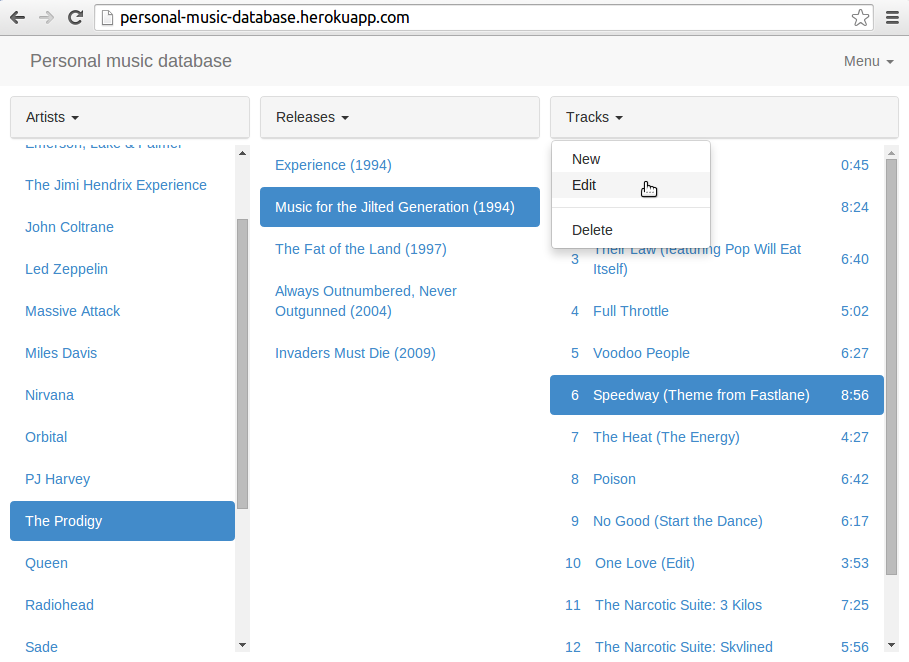
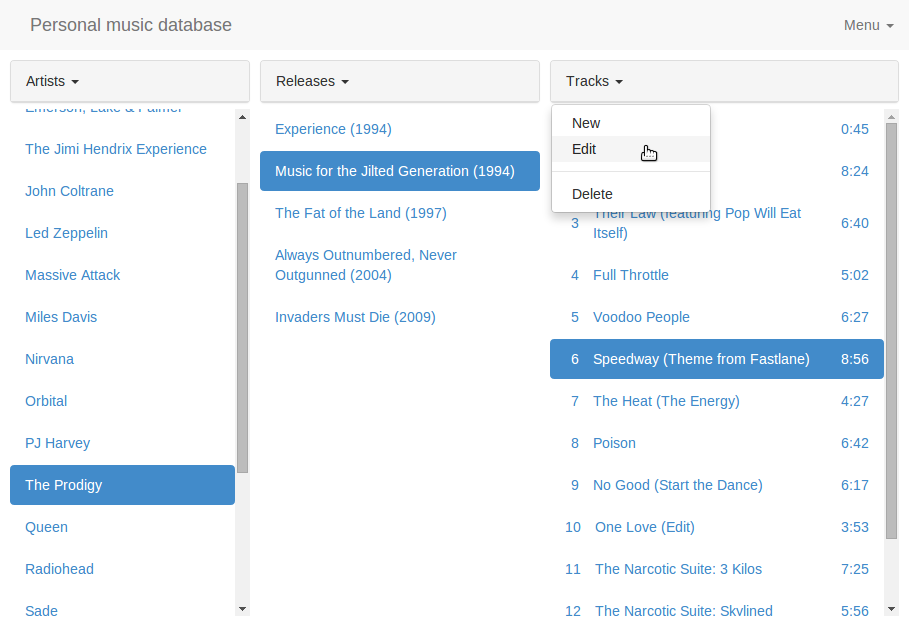
change deployment from heroku to github.io

diff --git a/README.md b/README.md
@@ -4,7 +4,7 @@
 
 個人用音楽データ管理Webアプリケーションです。次のURLで公開しています。データはブラウザのローカル環境にだけ保存されます。外部へアクセスすることはありませんので安心してお使い下さい。
 
-* <http://personal-music-database.herokuapp.com/>
+* <http://higuma.github.io/personal-music-database/>
 
 ![Screen shot](screenshot.png)
 

diff --git a/README.en.md b/README.en.md
@@ -4,7 +4,7 @@ English | [Japanese](/README.md)
 
 A personal music database web application. Data is stored to the browser's local storage.
 
-* <http://personal-music-database.herokuapp.com/>
+* <http://higuma.github.io/personal-music-database/>
 
 ![Screen shot](screenshot.png)
 
